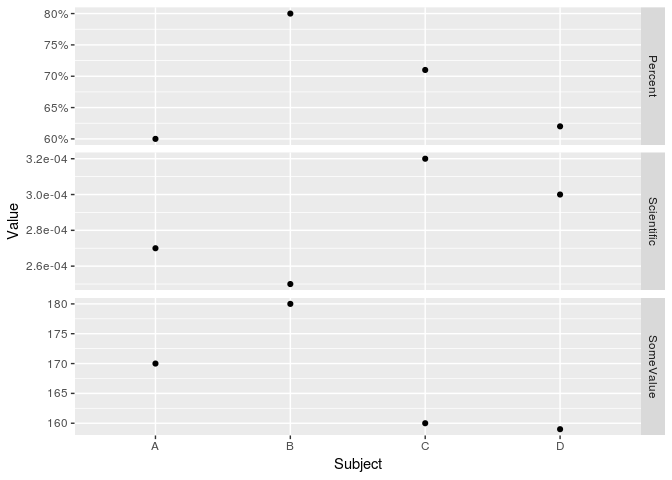
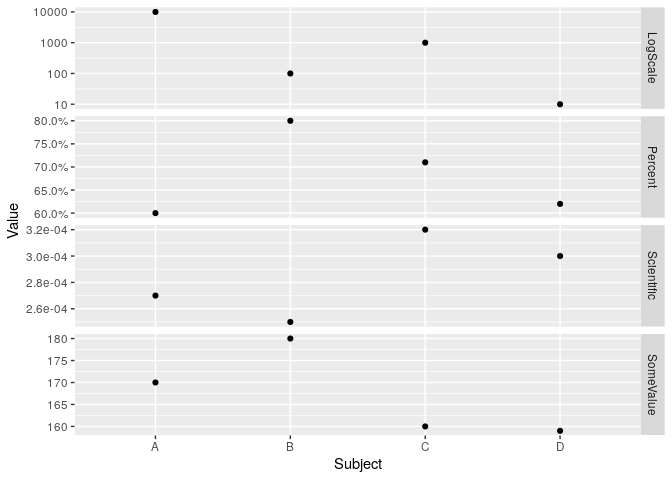
Update README with scale transformation example

diff --git a/README.md b/README.md
@@ -7,6 +7,8 @@ The goal of facetscales is to let you use `facet_grid` with different scales per
 
 The final aim of this package is to get more experience on the right interface to provide this feature and ultimately merge it into ggplot2, if possible. Preserving compatibility with previous versions is not a high priority at this stage.
 
+[![Travis build status](https://travis-ci.org/zeehio/facetscales.svg?branch=master)](https://travis-ci.org/zeehio/facetscales)
+
 Discussion and pull requests are welcome.
 
 Installation
@@ -37,17 +39,18 @@ library(ggplot2)
 library(scales)
 library(facetscales)
 mydf <- data.frame(
-  Subject = rep(c("A", "B", "C", "D"), each = 3),
-  Magnitude = rep(c("SomeValue", "Percent", "Scientific"), times = 4),
-  Value = c(c(170,0.6,2.7E-4),
-            c(180, 0.8, 2.5E-4),
-            c(160, 0.71, 3.2E-4),
-            c(159, 0.62, 3E-4)))
+  Subject = rep(c("A", "B", "C", "D"), each = 4),
+  Magnitude = rep(c("SomeValue", "Percent", "Scientific", "LogScale"), times = 4),
+  Value = c(c(170, 0.60, 2.7E-4, 10000),
+            c(180, 0.80, 2.5E-4, 100),
+            c(160, 0.71, 3.2E-4, 1000),
+            c(159, 0.62, 3.0E-4, 10)))
 
 scales_y <- list(
   Percent = scale_y_continuous(labels = percent_format()),
   SomeValue = scale_y_continuous(),
-  Scientific = scale_y_continuous(labels = scientific_format())
+  Scientific = scale_y_continuous(labels = scientific_format()),
+  LogScale = scale_y_log10()
 )
 
 ggplot(mydf) +
@@ -56,3 +59,8 @@ ggplot(mydf) +
 ```
 
 <img src="man/figures/README-example-1.png" width="100%" />
+
+Missing features
+================
+
+See the [issues](https://github.com/zeehio/facetscales/issues)
